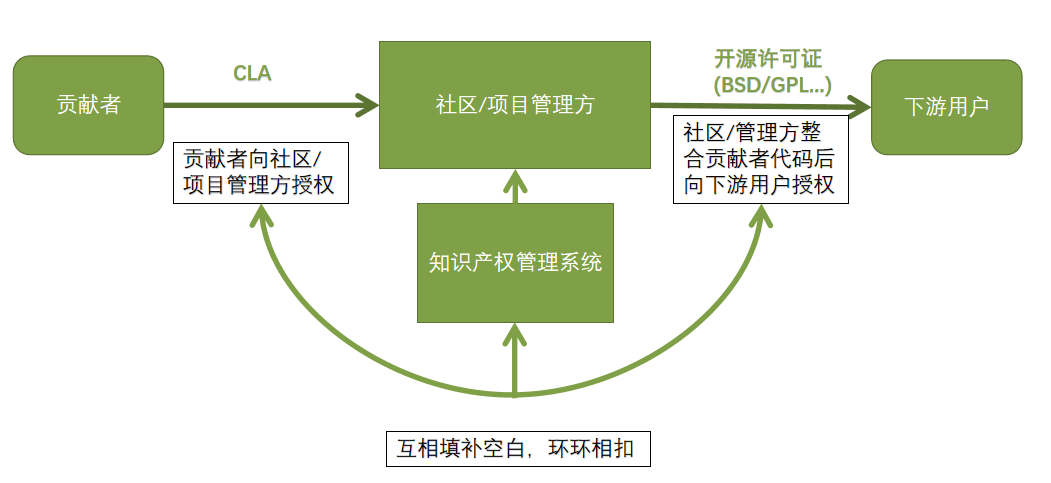
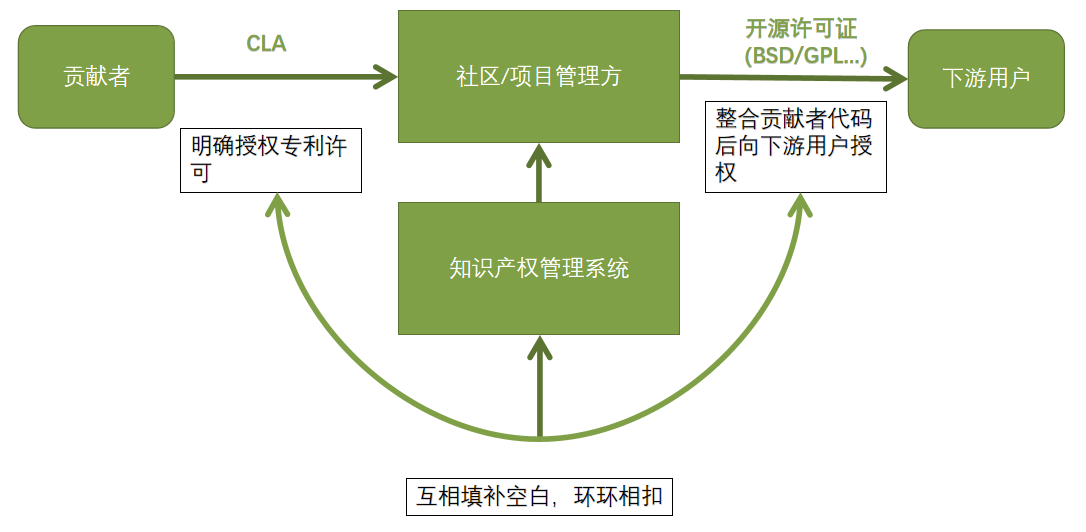
upd CLA

diff --git a/国内开源诉讼案例/CLA.md b/国内开源诉讼案例/CLA.md
@@ -1,202 +1,73 @@
-# CLA对开源社区的重要性
+# CLA：减少开源社区合规风险的银弹？
 
-## 什么是CLA
-- CLA（**Contributor License Agreement**）顾名思义，是具有法律效应的贡献者许可协议。其目的是确保项目组织对所有贡献拥有必要的著作与专利许可权，以允许项目组织可以对项目进行分发，通常通过授予不可撤销的许可来允项目组织使用贡献。
+作者：陈一雄、郑志鹏
 
-    CLA分为 ICLA（**Individual CLA**）与 CCLA（**Corporate CLA**），目前社区里的CLA大部分是根据[ASF(Apache Sofware Foundation)的CLA][1]进行衍生，各个项目组织根据需求进行定制化。但共同的特性是都包含以下几点：
+## 什么是CLA, 业界使用CLA的实践介绍
 
->- 关于签署该 CLA 的主体和贡献的定义
->- 授予著作权许可给拥有该软件知识产权的公司或组织
->- 专利许可的授予
->- 签署者保证依法有权授予上述许可
->- 签署者对属于原创内容贡献的保障
->- 说明贡献者提交非原创作品应该采用的方式
->- 签署者无需为贡献内容提供支持的免责描述
->- 保证在获悉任何方面不准确的事实或情况之时通知签约方
+CLA（**Contributor License Agreement**）顾名思义，是具有法律效应的贡献者许可协议。其目的是确保贡献者拥有的著作权与专利许可权被合理、充分、不可撤销的授权给项目管理组织以及项目的使用者。
 
-- 虽然ICLA与CCLA在内容上基本一致，但是签署时所需要的信息是不一致的。ICLA通常需要签署者提供个人信息（姓名、邮箱、联系电话等），对于CCLA通常需要提供公司信息（公司名称、地址、联系电话、邮箱、传真等）。考虑到数据的真实性，ICLA里姓名与邮箱是必选的，CCLA里公司名称与邮箱则是必选，同时，对于邮箱的真实性要进行验证。此外，签署CCLA时，往往需要公司维护白名单，该白名单中的用户的贡献都会得到通过。
+目前社区里的CLA大部分是根据[ASF(Apache Sofware Foundation)的CLA][1]衍生的，各个项目管理组织根据自身需求进行定制化。以下是部分社区的CLA对照表格：
 
-对于各个项目组织维护在不同平台如Github、Gitee以及自己构建的平台如Apache等则会在CLA签署里会增加其平台账号的信息。以下是部分社区的CLA对照表格：
+|    |**明确**涉及的主体和主要行为的**定义**|**明确的**著作权与专利**授权**|贡献者**原创性保证**|**明确**贡献者提交非原创作品方式|**明确**贡献者无需为贡献内容提供任何的支持和保证的**免责声明**|**明确**导致上述保证变化的情况需及时**通知**签约方|指定贡献内容的许可证**范围**|是否定义该协议的退出规则|
+|:----|:----|:----|:----|:----|:----|:----|:----|:----|
+|openEuler|✔|永久、不可撤销|✔|✔|✔|✔<br>|✖<br>|✖|
+|Apache|✔|永久、不可撤销|✔|✔|✔|✔|✖<br>|✖|
+|阿里|✔|永久、不可撤销|✔|✔|✔|✔|✖<br>|✖|
+|Google|✔|永久、不可撤销|✔|✔|✔|✔|✖<br>|✖|
+|Microsoft|✔|永久、不可撤销|✔|✔|✔|✔|✖<br>|✖|
+|Mozilla(**Committer’s Agreement**)|✔|与贡献许可证相关|✔|✔|✖<br><br>|✖<br><br>|贡献者必须在MPL-2.0或Mozilla可接受的许可集里的许可证下进行贡献|✖|
+|Fedora(**Fedora Project Contributor Agreement**)<br><br>|✔|与贡献许可证相关|✔|对于非原创的作品不认为是FPCA里定义的贡献内容，需采用不同的方式提交|✖<br><br>|✖<br><br>|贡献者可以在指定的许可证列表里选择许可贡献,如若没有指定则使用Fedora默认许可(MIT、CC-BY-SA 4.0)|✖|
+|**W3C**|✔|永久、有限时间可撤销|✔|✔|✖|✔|✖|贡献45天内可以撤销|
 
-<table>
-	<tr>
-	    <th></th>
-	    <th>指定贡献内容的许可证</th>
-	    <th>著作权、专利授权类型</th>
-        <th>是否定义退出规则</th> 
-        <th>合法授权</th> 
-        <th>原创性</th>
-        <th>提交非原创作品方式</th>
-        <th>无需为贡献内容提供支持的免责声明</th>
-        <th>变更通知</th>
-        <th>ICLA签署必选项</th>
-        <th>CCLA签署必选项</th>
-	</tr >
-	<tr >
-	    <td>openEuler</td>
-	    <td><font color=red>×</font></td>
-	    <td>永久、不可撤销</td>
-        <td><font color=red>×</font></td>
-        <td> ✔ </td>
-        <td> ✔ </td>
-        <td> ✔ </td>
-        <td> ✔ </td>
-        <td> ✔ </td>
-        <td> <font color=red>姓名、邮箱、</font>Gitee-ID </td>
-        <td> <font color=red>公司名称、邮箱、</font>授权代表、职位</td>
-	</tr>
-	<tr>
-	    <td>Apache</td>
-	    <td><font color=red>×</font></td>
-	    <td>永久、不可撤销</td>
-        <td><font color=red>×</font></td>
-        <td> ✔ </td>
-        <td> ✔ </td>
-        <td> ✔ </td>
-        <td> ✔ </td>
-        <td> ✔ </td>
-        <td> <font color=red>姓名、邮箱、</font> </td>
-        <td> <font color=red>公司名称、邮箱、</font>地址、电话、传真</td>
-	</tr>
-	<tr>
-	    <td>阿里</td>
-	    <td><font color=red>×</font></td>
-	    <td>永久、不可撤销</td>
-        <td><font color=red>×</font></td>
-        <td> ✔ </td>
-        <td> ✔ </td>
-        <td> ✔ </td>
-        <td> ✔ </td>
-        <td> ✔ </td>
-        <td> <font color=red>姓名、邮箱、</font>地址、电话 </td>
-        <td> <font color=red>公司名称、邮箱、</font>授权代表、职位、地址、国家、电话</td>
-	</tr>
-	<tr>
-	    <td>Google</td>
-	    <td><font color=red>×</font></td>
-	    <td>永久、不可撤销</td>
-        <td><font color=red>×</font></td>
-        <td> ✔ </td>
-        <td> ✔ </td>
-        <td> ✔ </td>
-        <td> ✔ </td>
-        <td> ✔ </td>
-        <td> <font color=red>姓名、邮箱、</font></td>
-        <td> <font color=red>公司名称、邮箱、</font>地址、国家、电话、授权签字人、授权管理贡献者列表人</td>
-	</tr>
-	<tr>
-        <td>Microsoft</td>
-	    <td><font color=red>×</font></td>
-	    <td>永久、不可撤销</td>
-        <td><font color=red>×</font></td>
-        <td> ✔ </td>
-        <td> ✔ </td>
-        <td> ✔ </td>
-        <td> ✔ </td>
-        <td> ✔ </td>
-        <td colspan=2> 个人签署：GitHub ID、名字、邮箱</br>
-                    代表雇主签署：公司名称、GitHub ID、名字</br><font color=red>无区分Individual与Corporate</font></td>
-	</tr>
-	<tr>
-	    <td>Mozilla(Committer’s Agreement)</td>
-	    <td>贡献者必须在MPL-2.0或Mozilla可接受的许可集里的许可证下进行贡献</td>
-	    <td>与贡献许可证相关</td>
-        <td><font color=red>×</font></td>
-        <td> ✔ </td>
-        <td> ✔ </td>
-        <td> ✔ </td>
-        <td> <font color=red>×</font></td>
-        <td> <font color=red>×</font></td>
-        <td colspan=2> 姓名、邮箱、电话、地址</br><font color=red>无区分Individual与Corporate</font></td>
-	</tr>
-	<tr>
-	    <td>Fedora(Fedora Project Contributor Agreement)</td>
-	    <td>贡献者可以在指定的许可证列表里选择许可贡献,如若没有指定则使用Fedora默认许可(MIT、CC-BY-SA 4.0)</td>
-	    <td>与贡献许可证相关</td>
-        <td><font color=red>×</font></td>
-        <td> ✔ </td>
-        <td> ✔ </td>
-        <td> 对于非原创的作品都不认为是贡献</td>
-        <td> <font color=red>×</font></td>
-        <td> <font color=red>×</font></td>
-        <td colspan=2> 姓名、邮箱</br><font color=red>无区分Individual与Corporate</font></td>
-	</tr>
-	<tr>
-	    <td>W3C</td>
-	    <td><font color=red>×</font></td>
-	    <td>永久、有限时间可撤销</td>
-        <td>贡献45天内可以撤销</td>
-        <td> ✔ </td>
-        <td> ✔ </td>
-        <td> ✔ </td>
-        <td> <font color=red>×</font></td>
-        <td> ✔ </td>
-        <td colspan=2> 姓名、邮箱</br><font color=red>无区分Individual与Corporate</font></td>
-	</tr>
-</table>
+从表格里我们可以看出：大部分CLA都是对License中的核心的名词定义、授权的范围、贡献是否原创进行了明确。但也有一些有趣的区别，Mozilla与Fedora社区的贡献者协议相对于其他的CLA，他们定义了贡献内容的License范围，有利于减少社区License的种类。同时，[Fedora][2]认为非贡献者原创作品都不包括在“贡献“的定义中，因此需要采用不同的方式提交非原创内容。
 
 
-从表格里我们可以看出，Mozilla与Fedora社区的贡献者协议不同于传统的CLA，他们更清晰的定义了贡献内容的license范围，同时对于“贡献”的定义，[Fedora][3]认为非贡献者原创作品都不包括在该定义中。对于社区项目来源有上游社区项目、上游社区项目改编与自研项目。我们知道当前大多数开源代码都遵循inbound=outbound 贡献策略，Fedora在遵循此策略情况上，其贡献者协议的目的是对社区自研项目的license的一个补充说明，来确保新的inbound具有社区可接受的license。
+## 我们对CLA的理解，以及为什么需要CLA？
 
-<br></br>
+我们都知道开源社区里版权、专利等合规问题无处不在。对于一个项目，您将需要确保所有相关方都受到版权和知识产权法的保护。
 
-## 为什么要签署CLA
-- 我们都知道开源社区里版权、专利等合规问题无处不在。对于一个项目，您将需要确保所有相关方都受到版权和知识产权法的保护。那么，如果您没有贡献者许可协议，会发生什么？尽管出于职业礼貌，人们普遍认为，项目贡献者拥有其贡献的版权，但如果没有签订贡献者许可协议，则未来很可能会出现问题：
+但对于版权专利的保护通常不是依靠开源的License，如著名的Apache-2.0、 MIT、 GNU GPLv2吗？CLA与License之间是什么关系？
 
->- **项目的版权归属问题？**
->- **贡献者在贡献时是否侵犯了版权？**
->- **贡献者是否被允许贡献？**
+我们认为：**CLA是License的明确和补充。它降低很多措辞的模糊性带来相关法律风险，同时对License未覆盖到部分的权利义务关系进行了补充。**
 
-这时候有一个清晰简洁的贡献者许可协议可以保护组织和贡献者免受未来有关知识产权的问题或拒绝使用所贡献的材料的影响。时常能看到业界有各种版权/专利纠纷案，CLA在版权/专利纠纷案中往往能起到关键性作用。
+![Image](img.png)
 
->**对于组织：** 降低合并他人代码的风险。虽然大部分贡献内容都带有License（文件的头部注释），但大部分License并未表明永久的许可，CLA通过补充永久性的版权许可能有效避免贡献者撤销所贡献的代码，当然，也可以考虑像W3C一样，在规定的时间内为贡献者提供撤销的权力，对贡献者来说，会更加的人性化，对组织来说也会吸引更多的贡献者。专利的许可能避组织陷入专利侵权案，同时原创声明能有效的解决组织陷入版权纠纷案中。另一方面，如果组织考虑更改项目的License,合法的解决方法是获取所有贡献者的批准，但是如果项目组织已经签署了CLA，则无需再花费大量时间在追踪贡献者上面。
+很多流行的开源License，它们依赖职业礼貌、道德和黑客价值观对著作权和专利权的授权进行说明，并没有清晰的定义。如MIT总共只有167个词。
 
->**对于贡献者：** 保护了贡献者的版权与专利，确保了贡献内容不会被他人用在非法盈利用途之上，同时贡献者无需对贡献内容提供支持。
-CLA内容除了上诉之外，是否还有其他方面？对于不同的组织，不同需求，可以在CLA中适当定制化来对项目的License进行补充。比如可以在CLA中增加维权的限制条件等，就从前不久 [Patrick McHardy 事件][4]里，McHardy 与 Netfilter 达成的和解协议里表明任何与 Netfilter 相关的版本维权活动的决策都应该基于该核心团队成员的多数投票，我们知道目前License基本上是没有关于维权的信息，如果将这种维权的方式补充到CLA内，我想就能有效的避免类似此类事件的发生。
+而使用CLA，可以在保留使用流行License的基础上，对License中没有明确说明的部分加以明确，大大减少以下法律争议发生概率：
 
-<br></br>
- ## 简化版CLA
+* **贡献者的贡献内容是否是永久的不可以撤销的。**
+* **贡献者是否在版权授权的同时进行了专利授权。**
+* **贡献者在贡献时如果侵犯了第三方的版权，作为项目的分发方，能否减少和转移自己需要承担法律责任和风险。**
+* **其他内容可参考前文表格**
 
-- DCO（Developer Certificate of Origin）， 由Linux Foundation 于 2004 年制定。与CLA相比，DCO 最大的优点是可以减轻开发者贡献的阻碍，只需要在每次提交的贡献内容的时候签署邮件地址即可。同时DCO没有冗长的 CLA 法律条文，也不支持定制化。目前[DCO][5]最新为1.1版本，贡献者只需要保证固定以下四点：
+实践中时常能看到业界有各种版权/专利纠纷案，CLA在版权/专利纠纷案中往往能起到关键性作用。
 
-> - **贡献全部或部分由我创建，并且我有权根据文件中指明的开源许可提交；或者**
-> - **贡献是基于以前的工作，这些工作属于适当的开源许可，无论这些工作全部还是部分由我完成，我有权根据相同的开源许可证（除非我被允许根据不同的许可证提交）提交修改后的工作；或者**
-> - **贡献是由其他人直接提供给我，该人证明1、2、或 3 ，并且我没有对其进行修改；**
-> - **我理解并同意该项目和贡献是公开的，并且该贡献的记录（包括我随之提交的所有个人信息，包括我的签字）被无限期保留，并且可以按照此项目或涉及的开放源码许可进行重新分发；**
+* **对于组织：**虽然大部分贡献内容都带有License（文件的头部注释），但大部分License并未**明确**表明许可是永久的，CLA补充了授权的永久性，和不可撤销性。**明确**的专利的许可能避组织陷入专利侵权案，原创声明帮助组织在发生对第三方的版权侵权时，转移责任和降低风险。同时，签署CLA也能留下所有贡献者的联系方式，在某些情况下可以更容易的联系到所有贡献者。这些对组织来说都是有利的。
+* **对于贡献者：明确**了自己是否转移了版权还是只是进行了授权，明确了贡献被授权的范围（如：不能用在非法用途上），同时**再次明确**贡献者无需对贡献内容提供支持，承担责任（虽然这部分内容一般也会被大多数License包含）。
 
-- 从CLA与DCO的内容与签署方式里不难看出，CLA的优势在于签署为一次性，而DCO则是每次commit都需要签署，CLA在法律上有明确法律义务，DCO则是用来限制贡献者遵守开源License，并未明确法律义务。在版权专利许可上，DCO需要根据项目的License而定，对此我们可以认为对于更加注重个人贡献的项目，可以考虑使用DCO，但是对于大型合作型项目，建议使用CLA。
+## 我们对CLA应用的潜力的思考：
 
-    当然这里还需考虑一些项目本身License已经包含了版权和专利许可的表述，如[Apache-2.0][6]里有明确表明贡献者授予的版权与专利许可。
+既然CLA是对License的补充，我们认为除了在License之内的其他约定都可以放入CLA中，包括：
 
-    ![Image](img/CLA1.png)
-    ![Image](img/CLA2.png)
+* 对License中模糊和有争议的内容的清晰定义和进一步明确。
+* **版权转移规则：**通常来说对开源项目的贡献无论大小，都将使贡献者成为项目的版权人之一。但副作用是某一个项目的版权人数量激增，这个在实践中会给除了版权授权（License的主要内容）以外的其他版权活动（如版权维权，版权转移等）带来很大的困难。可以制定**少量**贡献的版权转移给主要版权人的规则，CLA就是最适合放置该规则的地方。
+* **License变更规则：**在传统上，License变更需要获取全体版权人一致同意，这在开源项目实践中往往也非常困难，可以在CLA 中增加License变更的相关规则，如超过80%的“主要贡献者”同意，并定义主流贡献者来解决这个问题。
+* **License维权规则：**面对License遵从侵权，可以预先定义一套维权的规则，保证整个维权行为符合项目主要版权人的共同利益和项目价值观。如同前不久 [Patrick McHardy 事件][3]里，McHardy 与 Netfilter 达成的和解协议里：要求任何与 Netfilter 相关的版本维权活动的决策都应该基于该核心团队成员的多数投票。这样的内容如果提前出现在CLA里面，就可以避免整个争议事件，减少事件产生的不良影响。
+目前业界对CLA的应用主要还是集中在第1点，伴随着开源开发模式流行，我们认为CLA作为其有力的开源法律工具，有极大的潜力可挖掘，必将为开源世界的发展繁荣发挥更大的作用！
 
-    对于此类型项目是否还需要签署CLA？我想是需要的，因为该类License仅仅只是表明了版权专利的许可，但并未表明贡献者的原创性，这难免会造成一些贡献者将非原创作品进行贡献，导致组织陷入版权专利的纠纷案。当然也可以考虑此类项目结合DCO进行限制，因为DCO条文里有明确规范原创性问题，在此情况下DCO与项目License的结合基本能涵盖传统CLA的内容。
+## 我们对CLA在开源社区实践：
 
-    |    |CLA|DCO|Apache-2.0|GPLv2|MIT|
-    |:----|:----:|:----:|:----:|:----:|:----:|
-    |版权许可|✔|✖|✔|✔|✖|
-    |专利许可|✔|✖|✔|✔|✖|
-    |许可条件|✖|✖|✔|✔|✖|
-    |原创性说明|✔|✔|✖|✖|✖|
-    |非原创性作品贡献说明|✔|✔|✖|✖|✖|
+openEuler作为国内基础软件的根社区之一，也率先构建了CLA能力并进行了实践。当然我们希望进一步发展挖掘CLA的潜力，优化CLA签署和管理的体验。有兴趣的读者可以联系openEuler合规SIG组和基础设施SIG组参与讨论和后续优化。
 
-    从上诉表格中我们也可以看出，贡献者许可协议是可以作为项目License的一个补充条款，它们相互填补了空白，环环相扣，形成了一个强大的开源软件的知识产权管理系统。
-
-    ![Image](img/CLA3.png)
-
-
-
- 
 
 [1]:https://www.apache.org/licensescontributor-agreements.html
 
 [2]:https://fedoraproject.org/wiki/Legal:Fedora_Project_Contributor_Agreement?rd=Legal:FPCA
 
-[3]:https://fedoraproject.org/wiki/Legal:Fedora_Project_Contributor_Agreement?rd=Legal:FPCA
+[3]:https://mp.weixin.qq.com/s/eKB4bCEe1s6TrrJCFgnMig
 
-[4]:https://mp.weixin.qq.com/s/eKB4bCEe1s6TrrJCFgnMig
 
-[5]:https://developercertificate.org
 
-[6]:https://spdx.org/licenses/Apache-2.0.html
+
+
